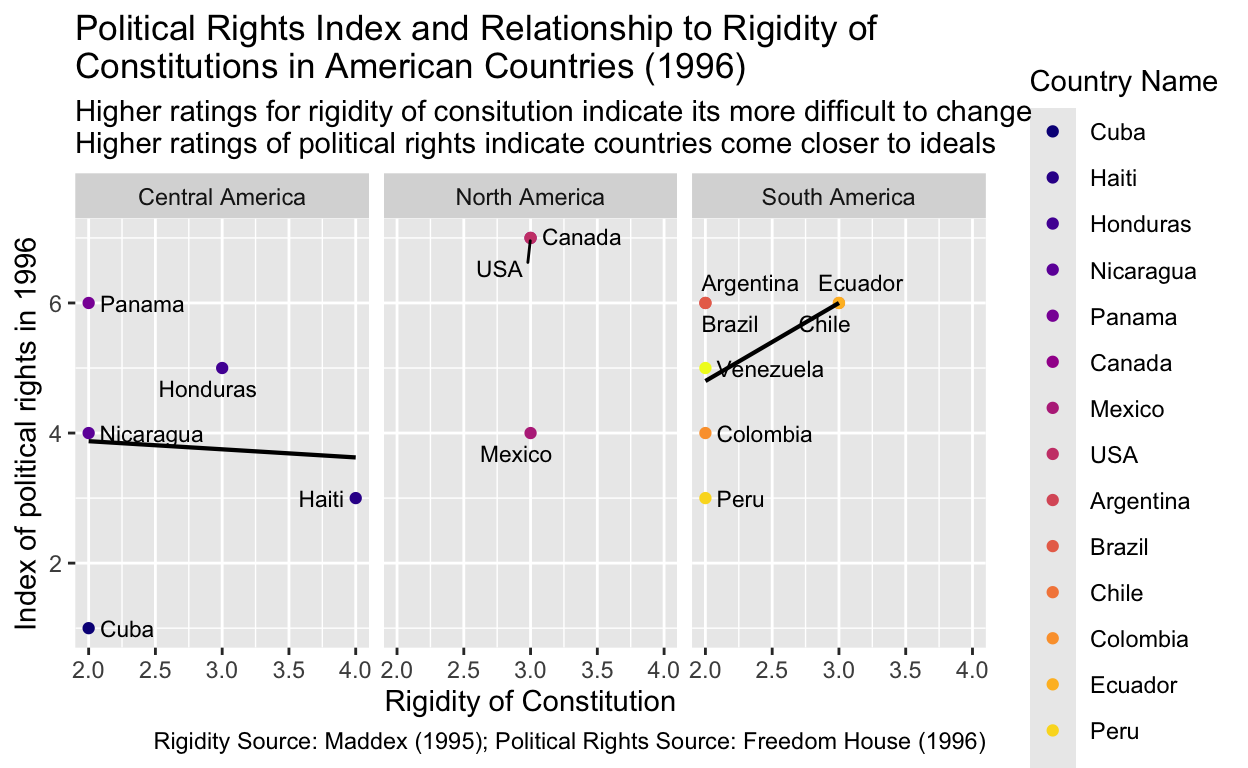
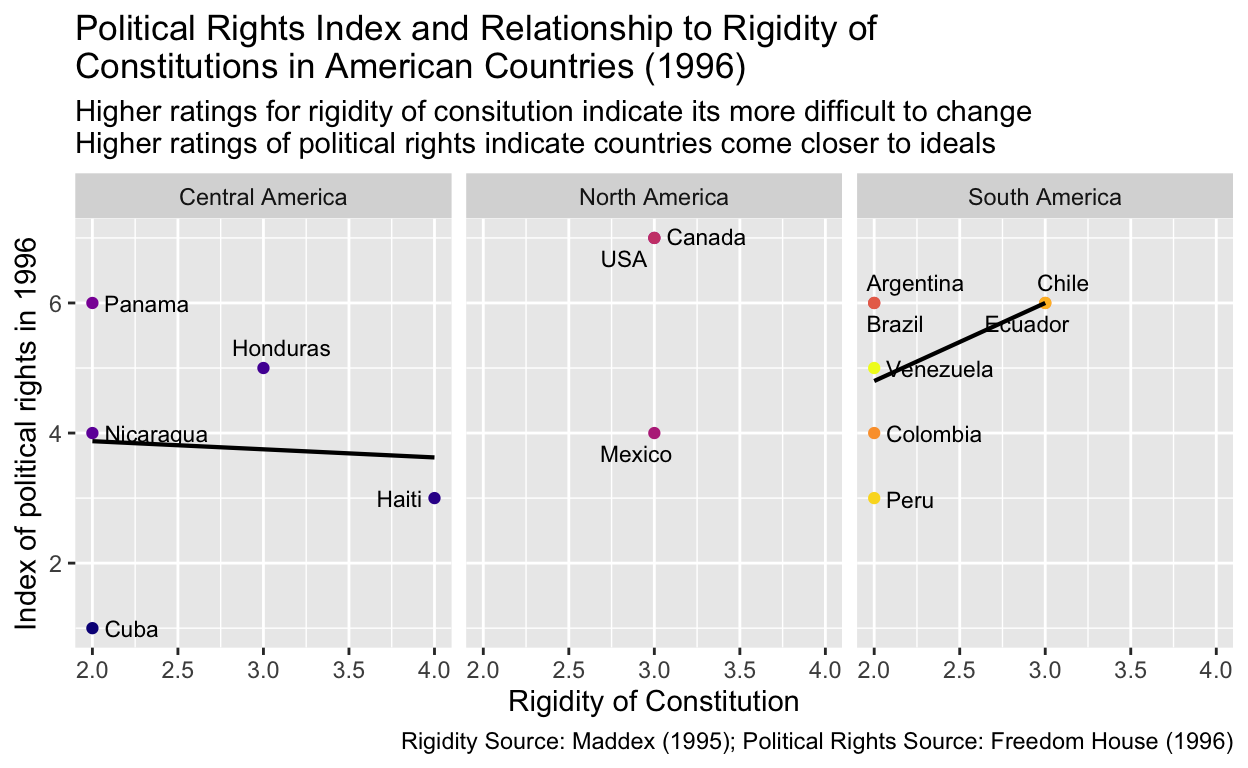
got rid of legend

diff --git a/index.html b/index.html
@@ -1621,7 +1621,8 @@ The outcome variable of interest is the Human Rights Index and this is how it wa
 <span>    subtitle <span class='op'>=</span> <span class='st'>"Higher ratings for rigidity of consitution indicate its more difficult to change\nHigher ratings of political rights indicate countries come closer to ideals"</span>,</span>
 <span>    color <span class='op'>=</span> <span class='st'>"Country Name"</span>, </span>
 <span>    caption <span class='op'>=</span> <span class='st'>"Rigidity Source: Maddex (1995); Political Rights Source: Freedom House (1996)"</span></span>
-<span>  <span class='op'>)</span> <span class='op'>+</span>  <span class='fu'><a href='https://ggplot2.tidyverse.org/reference/scale_viridis.html'>scale_color_viridis_d</a></span><span class='op'>(</span>option <span class='op'>=</span> <span class='st'>"plasma"</span><span class='op'>)</span> </span>
+<span>  <span class='op'>)</span> <span class='op'>+</span>  <span class='fu'><a href='https://ggplot2.tidyverse.org/reference/scale_viridis.html'>scale_color_viridis_d</a></span><span class='op'>(</span>option <span class='op'>=</span> <span class='st'>"plasma"</span><span class='op'>)</span> <span class='op'>+</span></span>
+<span>   <span class='fu'><a href='https://ggplot2.tidyverse.org/reference/theme.html'>theme</a></span><span class='op'>(</span>legend.position <span class='op'>=</span> <span class='st'>"none"</span><span class='op'>)</span></span>
 <span></span>
 <span><span class='va'>visualization</span></span></code></pre>
 </div>
